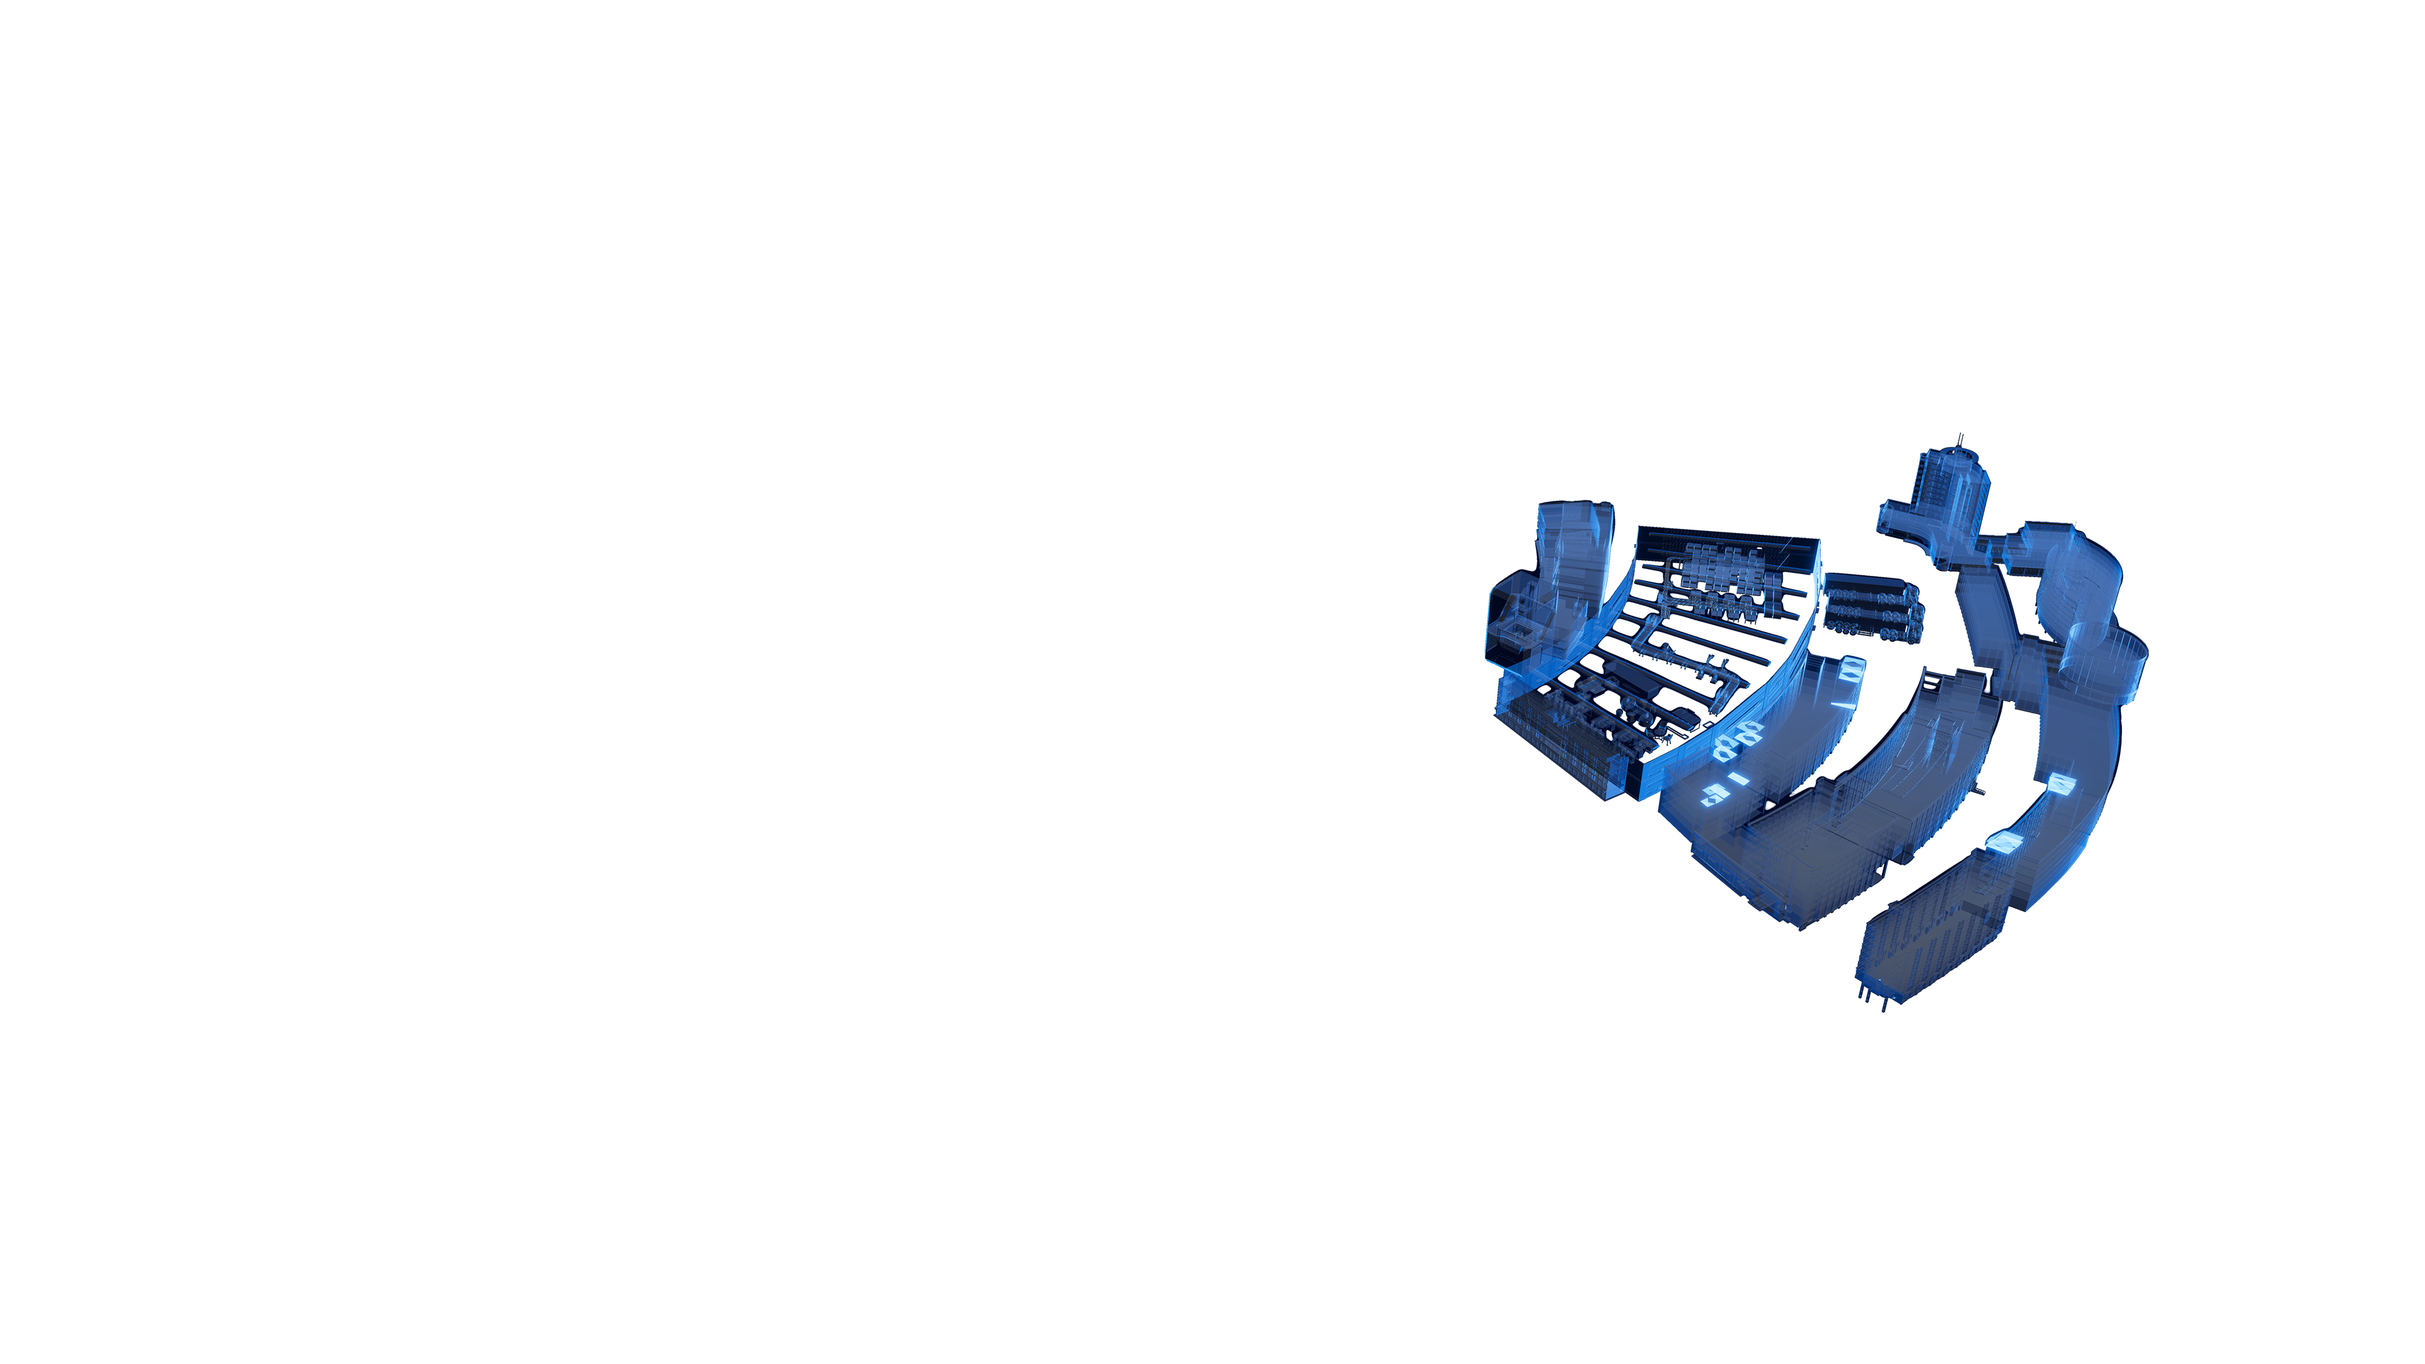
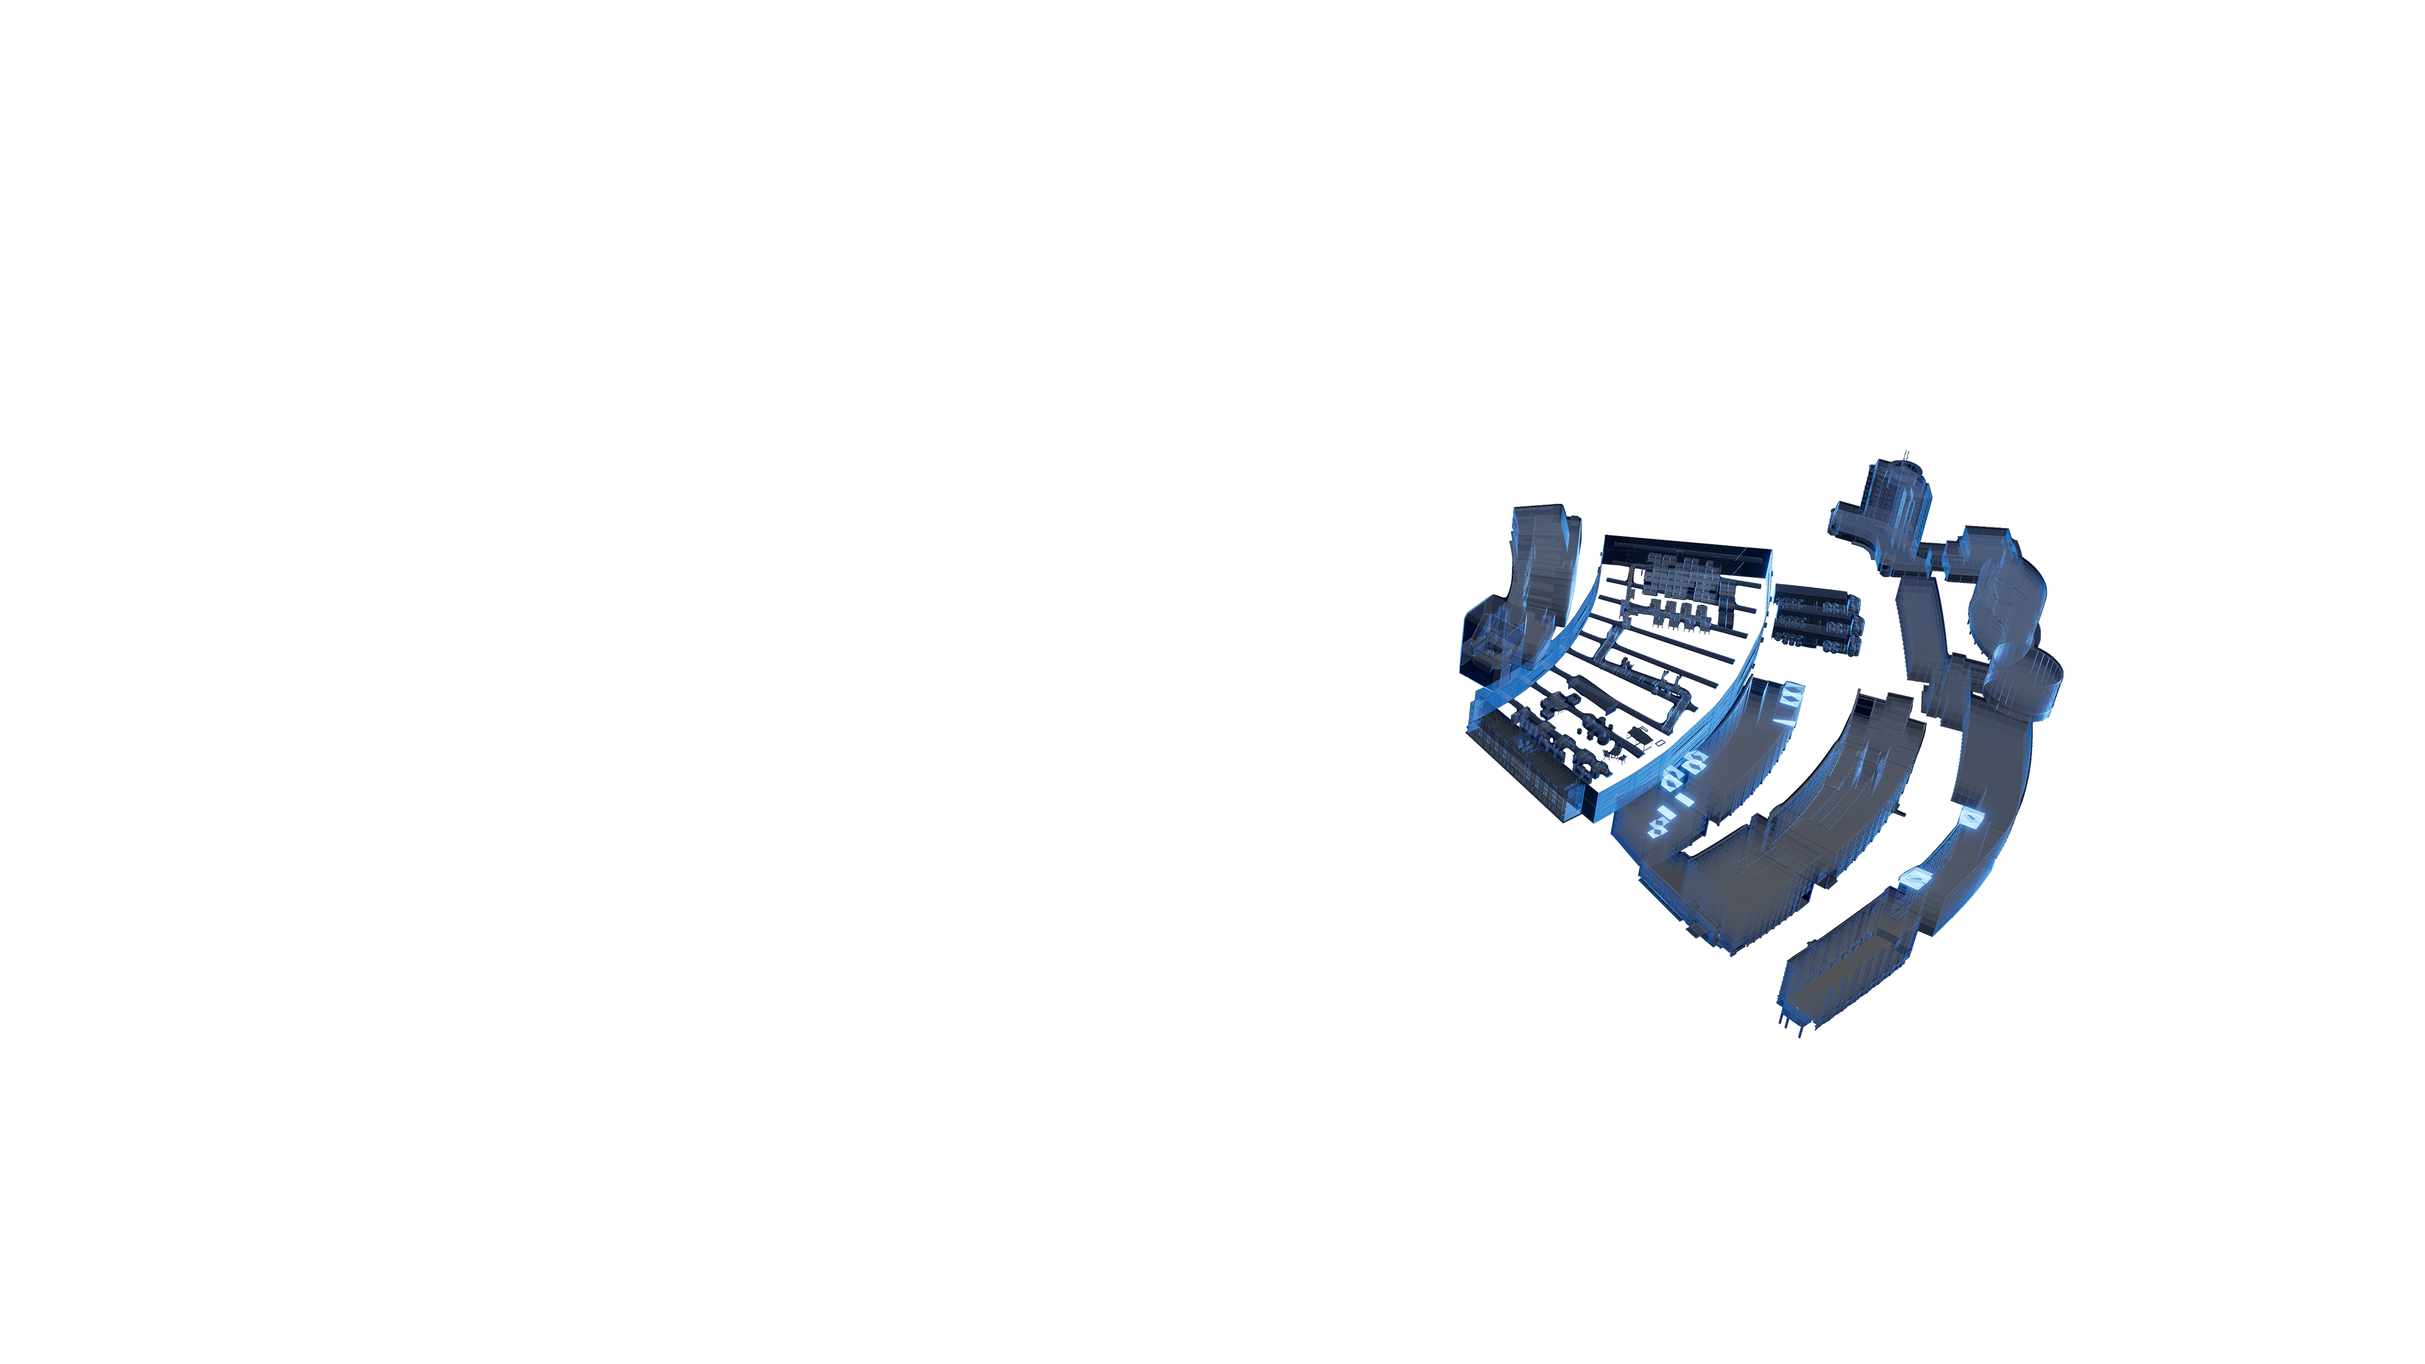
首页图替换

Changed region(s): [[0.5938, 0.3102, 0.9062, 0.7755]]

diff --git a/Personal-safety-metaverse/index.html b/Personal-safety-metaverse/index.html
@@ -14,9 +14,9 @@
     <meta name="apple-mobile-web-app-status-bar-style" content="black">
     <meta name="color-scheme" content="light dark">
     <meta name="format-detection" content="telephone=no">
-    <meta name="apple-mobile-web-app-title" content="3M-个人防护">
-    <meta name="description" content="3M-个人防护">
-    <title>3M-个人防护</title>
+    <meta name="apple-mobile-web-app-title" content="个人防护">
+    <meta name="description" content="个人防护">
+    <title>个人防护</title>
     <!--[if lt IE 9]>
     <script src="js/html5shiv.min.js"></script>
     <script src="js/respond.min.js"></script>
@@ -37,7 +37,7 @@
     <script type="text/javascript" src="../Content/js/loadingJs.js" id="main" data-baseurl="../" data-main="js/http.js"></script>
     <!-- Google tag (gtag.js) -->
     <!-- <script async="" src="../gtag/js?id=G-RTPS8DHXHH"></script> leen-->
-    <script>
+    <!-- <script>
         window.dataLayer = window.dataLayer || [];
 
         function gtag() {
@@ -47,7 +47,7 @@
         gtag('js', new Date());
 
         gtag('config', 'G-RTPS8DHXHH');
-    </script>
+    </script> -->
 </head>
 <body style="background-color: #fff;">
 
@@ -100,6 +100,9 @@
                 <div class="city-img-box">
                     <div class="city-img img-floor" data-name="" style="z-index: 1;"></div>
                     <div class="city-img img-chuangxin" data-name="创新中心" style="z-index: 3;"></div>
+                    <div class="city-img img-ear icon-pin animated moveUpDown_ear infinite" data-name="耳朵" style="z-index: 3;">
+                        <!-- <img src="images/index/img_ear_on.png?v20230323" alt="" class="icon-pin animated moveUpDown_ear infinite"> -->
+                    </div>
                     <div class="city-img img-yejin cityImg" data-name="冶金" style="z-index: 4;"></div>
                     <div class="city-img img-zhiyao cityImg" data-name="制药" style="z-index: 3;"></div>
                     <div class="city-img img-qiche cityImg" data-name="汽车" style="z-index: 2;"></div>
@@ -264,14 +267,6 @@
                     </div>
                     <!--汽车 大健康-->
                     <div class="dots-box dots-qiche">
-                        <!-- <div class="dot-item pc-show dot-zongzhuangchejian" data-area="汽车">
-                            <a href="javascript:;" class="dot-link relative flex-column flex-vc flex-hc" data-title="首页" data-name="首页-行业区域-汽车-总装车间" onclick="toJumpPageEvent(this, function () { changePage('big-health','tour5.xml', 5); });">
-                                <div class="dot-title margin-bottom-xs">
-                                    <span class="text-df text-white text-center ">总装车间</span>
-                                </div>
-                                <span class="dot"></span>
-                            </a>
-                        </div> -->
                         <div class="dot-item pc-show dot-pack" data-area="汽车">
                             <a href="javascript:;" class="dot-link relative flex-column flex-vc flex-hc" data-title="首页" data-name="首页-行业区域-汽车-PACK线" onclick="toJumpPageEvent(this, function () { changePage('big-health','tour0.xml', 0); });">
                                 <div class="dot-title margin-bottom-xs">
@@ -304,22 +299,6 @@
                                 <span class="dot"></span>
                             </a>
                         </div>
-                        <!-- <div class="dot-item pc-show dot-tuzhuangchejian" data-area="汽车">
-                            <a href="javascript:;" class="dot-link relative flex-column flex-vc flex-hc" data-title="首页" data-name="首页-行业区域-汽车-涂装车间" onclick="toJumpPageEvent(this, function () { changePage('big-health','tour4.xml', 3); });">
-                                <div class="dot-title margin-bottom-xs">
-                                    <span class="text-df text-white text-center ">涂装车间</span>
-                                </div>
-                                <span class="dot"></span>
-                            </a>
-                        </div> -->
-                        <!-- <div class="dot-item pc-show dot-donglizongcheng" data-area="汽车">
-                            <a href="javascript:;" class="dot-link relative flex-column flex-vc flex-hc" data-title="首页" data-name="首页-行业区域-汽车-动力总成" onclick="toJumpPageEvent(this, function () { changePage('big-health','tour6.xml', 4); });">
-                                <div class="dot-title margin-bottom-xs">
-                                    <span class="text-df text-white text-center ">动力总成</span>
-                                </div>
-                                <span class="dot"></span>
-                            </a>
-                        </div> -->
                     </div>
                     <!--建筑 政府-->
                     <div class="dots-box dots-jianzhu">
@@ -358,14 +337,6 @@
                     </div>
                     <!--化工 制造商-->
                     <div class="dots-box dots-huagong">
-                        <!-- <div class="dot-item pc-show dot-hanjiedamo" data-area="化工">
-                            <a href="javascript:;" class="dot-link relative flex-column flex-vc flex-hc" data-title="首页" data-name="首页-行业区域-化工-焊接打磨" onclick="toJumpPageEvent(this, function () { changePage('aid-makers','tour4.xml', 3); });">
-                                <div class="dot-title margin-bottom-xs">
-                                    <span class="text-df text-white text-center ">焊接打磨</span>
-                                </div>
-                                <span class="dot"></span>
-                            </a>
-                        </div> -->
                         <div class="dot-item pc-show dot-zhuangxiehuo" data-area="化工">
                             <a href="javascript:;" class="dot-link relative flex-column flex-vc flex-hc" data-title="首页" data-name="首页-行业区域-化工-装卸货" onclick="toJumpPageEvent(this, function () { changePage('aid-makers','tour0.xml', 0); });">
                                 <div class="dot-title margin-bottom-xs">
@@ -382,22 +353,6 @@
                                 <span class="dot"></span>
                             </a>
                         </div>
-                        <!-- <div class="dot-item pc-show dot-gaochuzuoye" data-area="化工">
-                            <a href="javascript:;" class="dot-link relative flex-column flex-vc flex-hc" data-title="首页" data-name="首页-行业区域-化工-高处作业" onclick="toJumpPageEvent(this, function () { changePage('aid-makers','tour3.xml', 2); });">
-                                <div class="dot-title margin-bottom-xs">
-                                    <span class="text-df text-white text-center ">高处作业</span>
-                                </div>
-                                <span class="dot"></span>
-                            </a>
-                        </div>
-                        <div class="dot-item pc-show dot-youxiankongjian" data-area="化工">
-                            <a href="javascript:;" class="dot-link relative flex-column flex-vc flex-hc" data-title="首页" data-name="首页-行业区域-化工-有限空间" onclick="toJumpPageEvent(this, function () { changePage('aid-makers','tour5.xml', 4); });">
-                                <div class="dot-title margin-bottom-xs">
-                                    <span class="text-df text-white text-center ">有限空间</span>
-                                </div>
-                                <span class="dot"></span>
-                            </a>
-                        </div> -->
                         <div class="dot-item pc-show dot-yingjixiangying" data-area="化工">
                             <a href="javascript:;" class="dot-link relative flex-column flex-vc flex-hc" data-title="首页" data-name="首页-行业区域-化工-应急响应" onclick="toJumpPageEvent(this, function () { changePage('aid-makers','tour2.xml', 2); });">
                                 <div class="dot-title margin-bottom-xs">
@@ -412,12 +367,12 @@
                         <img src="images/index/img_floor.png" usemap="#image-map" width="3840" height="2160" class="img-map">
 
                         <map name="image-map">
-                            <area onmouseover="getPhoth('创新中心')" alt="中心" href="javascript:void(0);" coords="1665, 666, 1813, 620, 1912, 538, 2002, 507, 2076, 553, 2138, 646, 2294, 709, 2359, 797, 2365, 891, 2277, 998, 2121, 1055, 1938, 1076, 1707, 1042, 1583, 963, 1524, 856, 1548, 742" shape="poly">
-                            <area onmouseover="getPhoth('建筑')" alt="建筑" href="javascript:void(0);" coords="2108, 534, 2191, 362, 2359, 379, 2536, 415, 2699, 460, 2910, 541, 3139, 686, 2433, 775, 2370, 696, 2194, 631" shape="poly">
-                            <area onmouseover="getPhoth('化工')" alt="化工" href="javascript:void(0);" coords="2262, 1075, 2974, 1638, 3185, 1510, 3312, 1352, 3375, 1200, 3392, 1045, 3350, 904, 3260, 801, 2456, 822, 2427, 960" shape="poly">
-                            <area onmouseover="getPhoth('冶金')" alt="冶金" href="javascript:void(0);" coords="1571, 1062, 766, 1535, 995, 1668, 1276, 1774, 1627, 1838, 1995, 1855, 2349, 1828, 2675, 1752, 2458, 1465, 2158, 1109, 1975, 1138, 1780, 1127" shape="poly">
-                            <area onmouseover="getPhoth('制药')" alt="制药" href="javascript:void(0);" coords="639, 778, 793, 630, 1459, 762, 1424, 835, 1436, 934, 1497, 1009, 609, 1376, 511, 1196, 520, 954" shape="poly">
-                            <area onmouseover="getPhoth('汽车')" alt="汽车" href="javascript:void(0);" coords="970, 534, 1541, 707, 1990, 465, 2001, 343, 1745, 350, 1482, 377, 1229, 441" shape="poly">
+                            <area onmouseover="getPhoth('创新中心')" alt="中心" href="javascript:void(0);" coords="1669, 670, 1824, 624, 1912, 538, 2002, 507, 2076, 553, 2115, 651, 2245, 732, 2294, 793, 2308, 892, 2247, 987, 2121, 1055, 1938, 1080, 1726, 1046, 1583, 963, 1553, 861, 1590, 755" shape="poly">
+                            <area onmouseover="getPhoth('建筑')" alt="政府" href="javascript:void(0);" coords="2082, 514, 2178, 292, 2353, 321, 2567, 380, 2726, 445, 2910, 541, 3069, 673, 2393, 774, 2349, 704, 2194, 631" shape="poly">
+                            <area onmouseover="getPhoth('化工')" alt="制造商" href="javascript:void(0);" coords="2229, 1108, 2842, 1668, 3029, 1534, 3156, 1385, 3232, 1233, 3252, 1073, 3232, 934, 3171, 799, 2430, 826, 2383, 977" shape="poly">
+                            <area onmouseover="getPhoth('冶金')" alt="连锁店" href="javascript:void(0);" coords="1617, 1081, 892, 1578, 1090, 1699, 1359, 1809, 1660, 1875, 1968, 1895, 2289, 1860, 2580, 1792, 2375, 1490, 2127, 1127, 1974, 1149, 1773, 1132" shape="poly">
+                            <area onmouseover="getPhoth('制药')" alt="耳模" href="javascript:void(0);" coords="718, 782, 878, 595, 1516, 746, 1470, 832, 1482, 931, 1541, 1026, 738, 1416, 629, 1177, 629, 952" shape="poly">
+                            <area onmouseover="getPhoth('汽车')" alt="大健康" href="javascript:void(0);" coords="1021, 500, 1546, 697, 1973, 465, 1993, 277, 1748, 284, 1496, 321, 1246, 393" shape="poly">
                         </map>
                     </div>
                 </div>

diff --git a/Personal-safety-metaverse/css/index.css b/Personal-safety-metaverse/css/index.css
@@ -158,6 +158,10 @@
   background-image: url("../images/index/img_chuangxin.png");
   opacity: 1;
 }
+.overview-modal .city-img-box .city-img.img-ear {
+  background-image: url("../images/index/img_ear_on.png");
+  opacity: 1;
+}
 .overview-modal .city-img-box .city-img.img-yejin {
   background-image: url("../images/index/img_yejin.png");
 }
@@ -173,6 +177,7 @@
 .overview-modal .city-img-box .city-img.img-huagong {
   background-image: url("../images/index/img_huagong.png");
 }
+
 .overview-modal .city-img-box .city-img.active.img-yejin {
   background-image: url("../images/index/img_yejin_on.png");
 }
@@ -907,11 +912,11 @@
 @-webkit-keyframes moveUpDown {
   0%,
   100% {
-    -webkit-transform: translateY(15%);
-    -moz-transform: translateY(15%);
-    -ms-transform: translateY(15%);
-    -o-transform: translateY(15%);
-    transform: translateY(15%);
+    -webkit-transform: translateY(var(--offset));
+    -moz-transform: translateY(var(--offset));
+    -ms-transform: translateY(var(--offset));
+    -o-transform: translateY(var(--offset));
+    transform: translateY(var(--offset));
   }
   50% {
     -webkit-transform: translateY(0);
@@ -924,11 +929,11 @@
 @keyframes moveUpDown {
   0%,
   100% {
-    -webkit-transform: translateY(15%);
-    -moz-transform: translateY(15%);
-    -ms-transform: translateY(15%);
-    -o-transform: translateY(15%);
-    transform: translateY(15%);
+    -webkit-transform: translateY(var(--offset));
+    -moz-transform: translateY(var(--offset));
+    -ms-transform: translateY(var(--offset));
+    -o-transform: translateY(var(--offset));
+    transform: translateY(var(--offset));
   }
   50% {
     -webkit-transform: translateY(0);
@@ -939,9 +944,16 @@
   }
 }
 .moveUpDown {
+  --offset: 15%;
   -webkit-animation: moveUpDown 1s linear both;
   -o-animation: moveUpDown 1s linear both;
   animation: moveUpDown 1s linear both;
+}
+.moveUpDown_ear {
+  --offset: 3%;
+  -webkit-animation: moveUpDown 5s linear both;
+  -o-animation: moveUpDown 5s linear both;
+  animation: moveUpDown 5s linear both;
 }
 @-webkit-keyframes cloudMove1 {
   from {

diff --git a/Personal-safety-metaverse/js/loading.js b/Personal-safety-metaverse/js/loading.js
@@ -3,6 +3,8 @@ var loader = new ImagesLoader();
 loader.loadImages([
     "flash_bg.jpg",
     "img_chuangxin.png",
+    "img_ear_on.png",
+    "img_ear.png",
     "img_floor.png",
     "img_huagong.png",
     "img_huagong_on.png",
